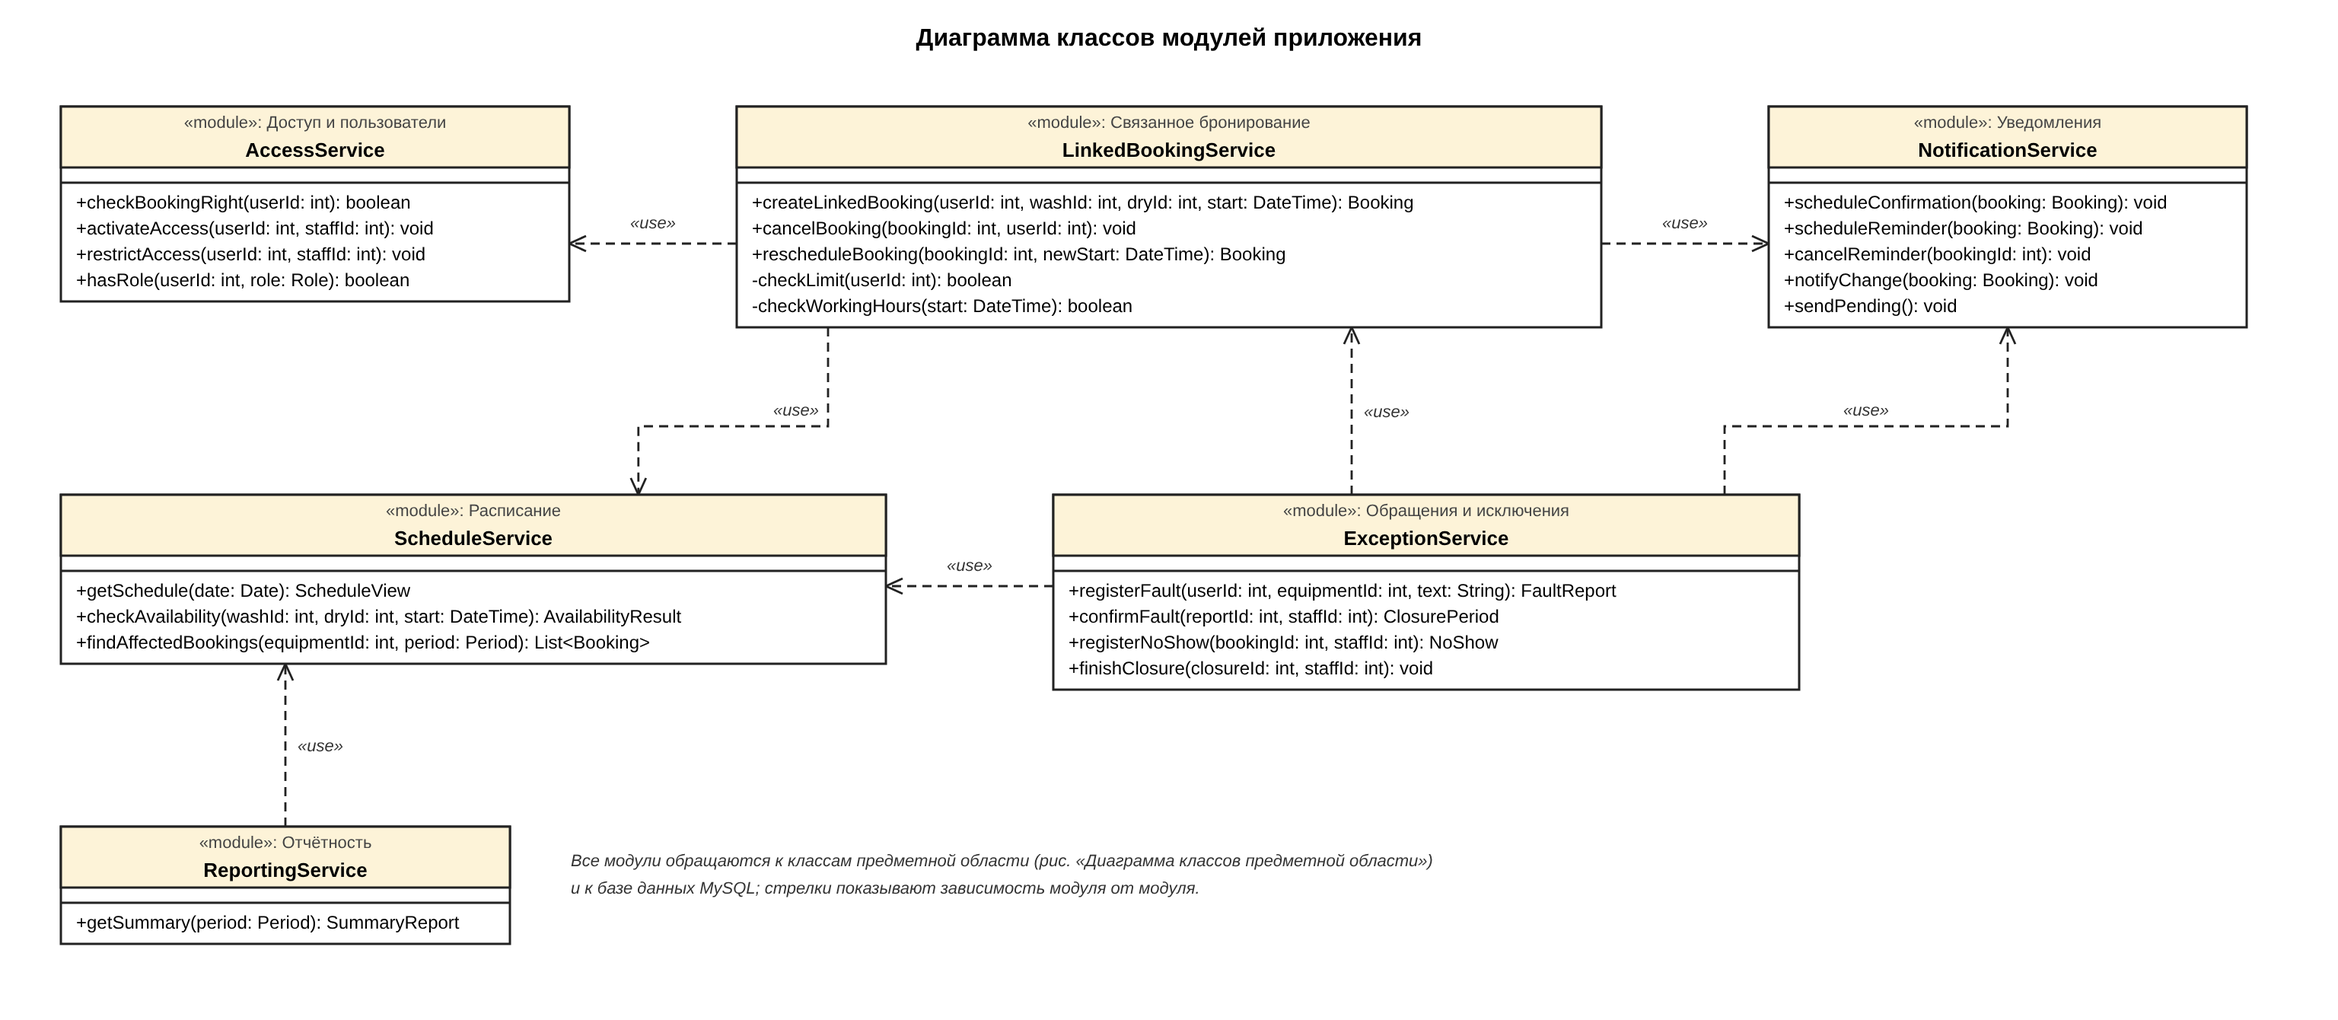
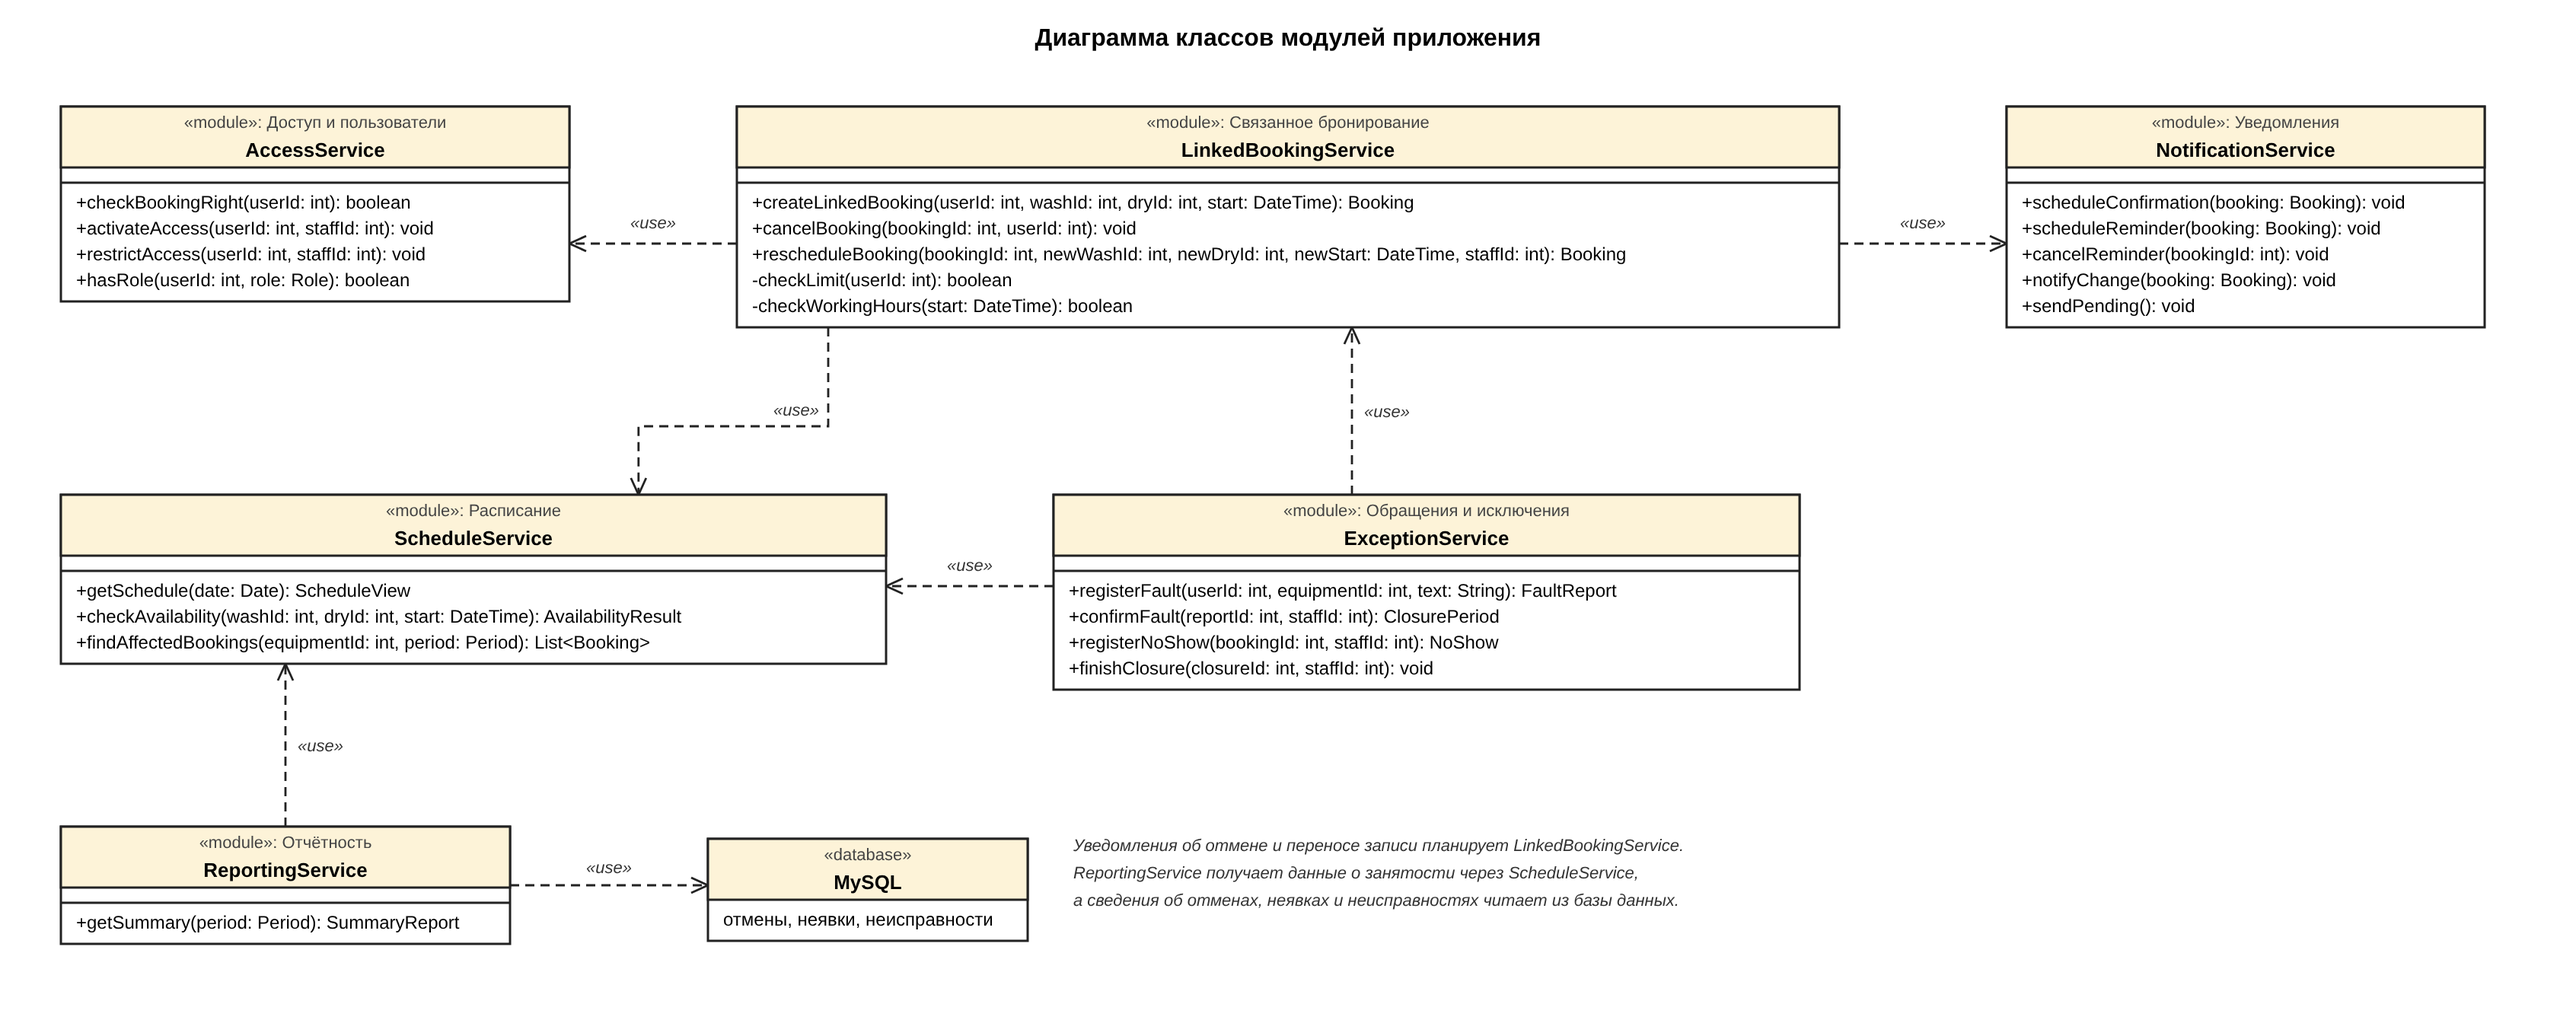
Update section 2: email, cardinality [0..1], CANCELLED, rescheduleBooking, remove dependency ExceptionService → NotificationService

diff --git a/README.md b/README.md
@@ -153,7 +153,7 @@
 
 | Сущность | Назначение | Основные атрибуты |
 |---|---|---|
-| Пользователь (`User`) | Учётная запись жильца или ответственного сотрудника | `user_id`, `login`, `full_name`, `role`, `laundry_access`, `created_at` |
+| Пользователь (`User`) | Учётная запись жильца или ответственного сотрудника | `user_id`, `login`, `email`, `full_name`, `role`, `laundry_access`, `created_at` |
 | Оборудование (`Equipment`) | Стиральная или сушильная машина | `equipment_id`, `name`, `type`, `status` |
 | Бронирование (`Booking`) | Связанная запись на стирку и сушку | `booking_id`, `user_id`, `status`, `visit_start`, `visit_end`, `created_at`, `cancelled_at` |
 | Интервал бронирования (`BookingInterval`) | Время занятости одной машины в рамках бронирования | `interval_id`, `booking_id`, `equipment_id`, `kind`, `start_at`, `end_at` |
@@ -174,7 +174,9 @@
 | `BookingInterval.kind` | `WASH`, `DRY` |
 | `FaultReport.check_result` | `PENDING`, `CONFIRMED`, `REJECTED` |
 | `Notification.type` | `CONFIRMATION`, `REMINDER`, `CHANGE`, `CANCELLATION` |
-| `Notification.delivery_status` | `PENDING`, `SENT`, `FAILED` |
+| `Notification.delivery_status` | `PENDING`, `SENT`, `FAILED`, `CANCELLED` |
+
+Адрес `email` используем для отправки уведомлений жильцу.
 
 Статус `EXPIRED` отражает окончание запланированного времени по расписанию, а не фактическое освобождение машины. Отменённые бронирования сохраняем для истории, но не учитываем при расчёте занятого времени.
 
@@ -207,6 +209,7 @@
 - Бронирование и оба интервала сохраняем одной транзакцией. При ошибке частичные изменения отменяем.
 - Режим работы прачечной и лимит предстоящих записей считаем параметрами настройки, а не сущностями модели.
 - Сбой отправки уведомления не отменяет бронирование: результат отправки сохраняем в `delivery_status` для повторной обработки.
+- При отмене бронирования неотправленное напоминание отменяем и переводим в статус `CANCELLED`. Перед отправкой система повторно проверяет актуальность задания: статус бронирования и время посещения.
 
 ### 2.5. Диаграмма ERD
 
@@ -226,7 +229,7 @@
 
 Классы предметной области соответствуют сущностям ERD. Связь «Бронирование — Интервал бронирования» показываем как композицию: интервалы не существуют отдельно от бронирования, и в каждом бронировании их ровно два.
 
-Операции классов отражают правила проекта. Например, `Booking.isCancellable()` проверяет, что запись можно отменить до начала стирки, а `BookingInterval.overlaps()` используется при проверке пересечений. Перечисления показываем отдельно, так как они задают типы атрибутов.
+Операции классов отражают правила проекта. Например, `Booking.isCancellable()` проверяет, что запись можно отменить до начала стирки, а `BookingInterval.overlaps()` используется при проверке пересечений. Атрибуты `cancelledAt`, `sentAt` и `endAt` могут отсутствовать, поэтому отмечаем их кратностью `[0..1]` в соответствии с `NULL` в ERD. Перечисления показываем отдельно, так как они задают типы атрибутов.
 
 ### 2.7. Диаграмма классов модулей
 
@@ -234,9 +237,11 @@
 
 *Рисунок 4 — Диаграмма классов модулей приложения.*
 
-Для шести логических модулей из документа «Общие проектные решения» выделяем по одному классу. Модуль «Связанное бронирование» использует «Доступ и пользователи» для проверки права, «Расписание» для проверки доступности и «Уведомления» для подтверждений и напоминаний.
+Для шести логических модулей из документа «Общие проектные решения» выделяем по одному классу. Модуль «Связанное бронирование» использует «Доступ и пользователи» для проверки права, «Расписание» для проверки доступности и «Уведомления» для подтверждений и напоминаний. Уведомления об отмене и переносе записи планирует именно он.
 
-Модуль «Обращения и исключения» обрабатывает неисправности и неявки. Для переноса или отмены затронутых записей он обращается к модулю «Связанное бронирование», а для поиска таких записей — к модулю «Расписание». Модуль «Отчётность» только читает данные расписания.
+Модуль «Обращения и исключения» обрабатывает неисправности и неявки. Для переноса или отмены затронутых записей он обращается к модулю «Связанное бронирование», а для поиска таких записей — к модулю «Расписание». Напрямую к модулю «Уведомления» он не обращается: уведомление планирует «Связанное бронирование» при отмене или переносе записи. Для переноса сотрудник указывает обе машины, новое время начала и свой идентификатор.
+
+Модуль «Отчётность» получает данные о занятости через «Расписание», а сведения об отменах, неявках и неисправностях читает из базы данных.
 
 ### 2.8. Сопоставление с LibreBooking
 
